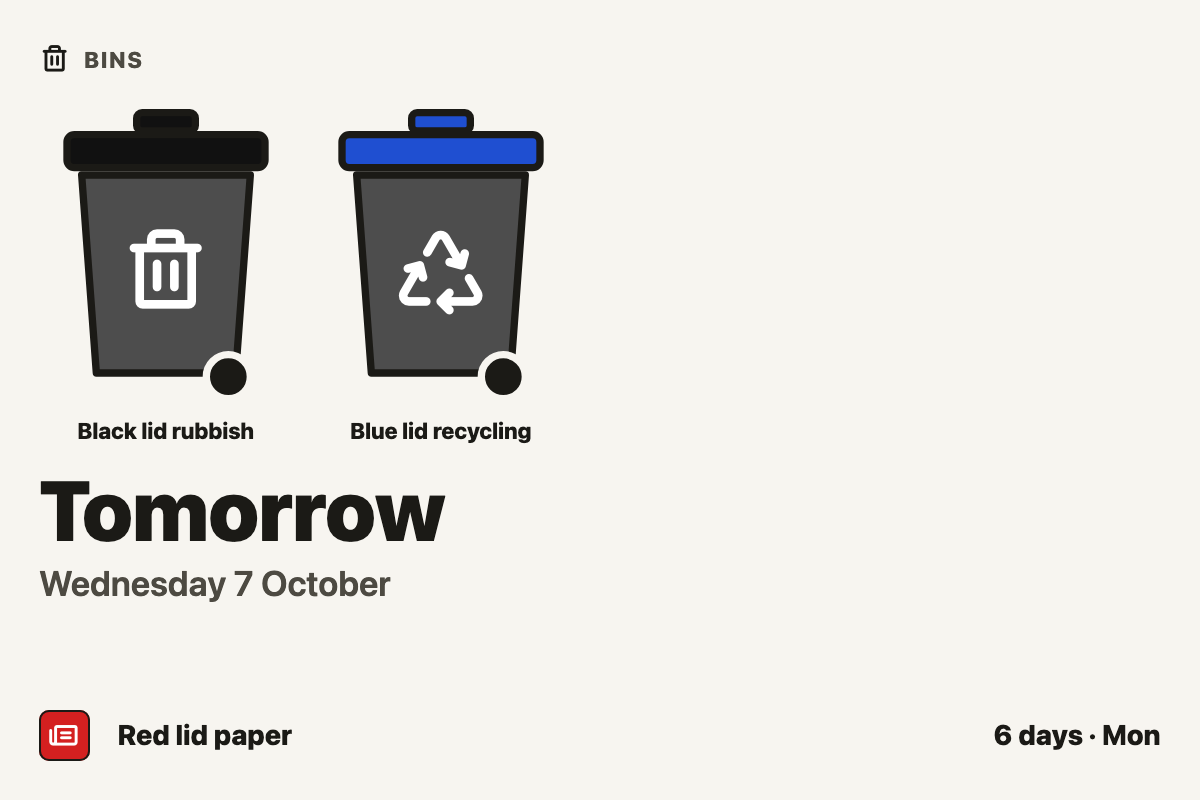
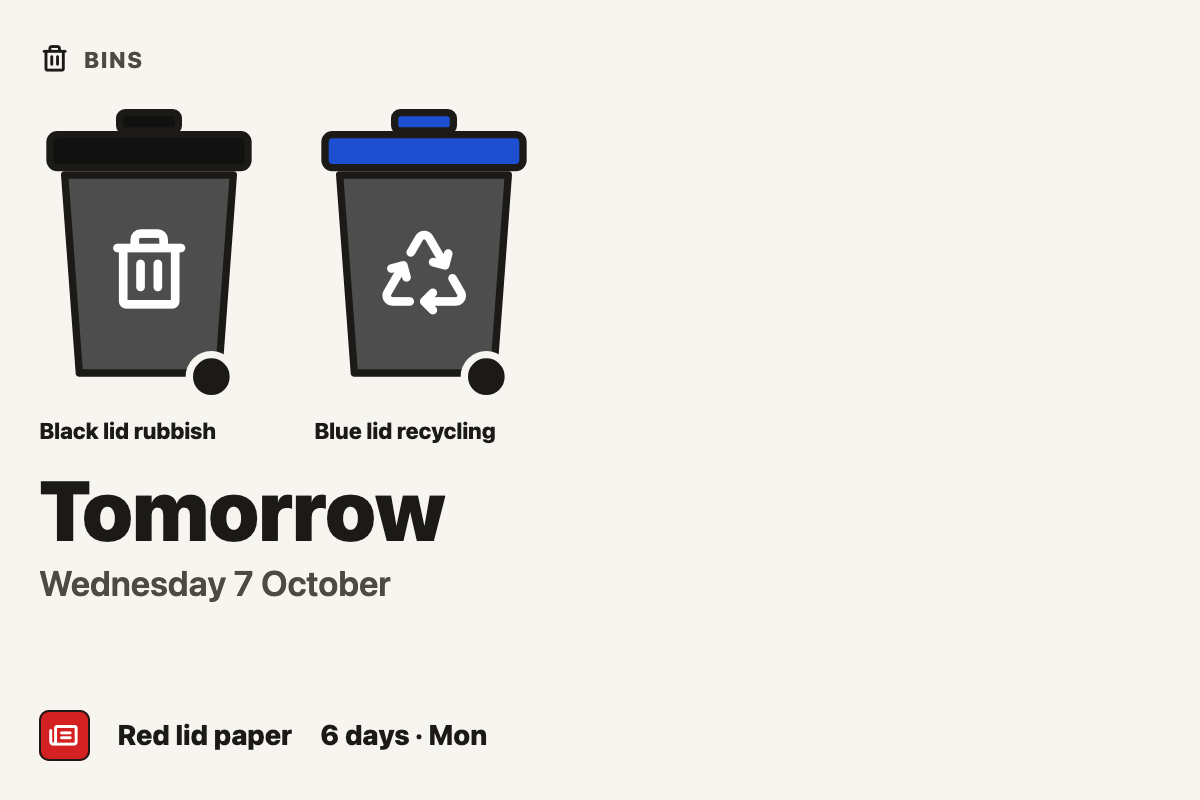
Fix what the final review found: +N size, short tiles, left edges
- "+N" badges are the size of the chips or bins beside them again. The
  badge set its own font size, so its em-based size resolved differently
  from its neighbours'; its text is now in a child span. MD's busiest day
  (14 bins) fits its cell again.
- Error and empty tiles show the whole message in short wide cells
  (380x120, 240x120): a short body drops the icon and sets the message in
  the label size, and the icon only stacks above the text when there is
  the height for it.
- Bins line up on the left with their names under them, instead of
  centred in a wider box; LG's "when" follows the names rather than
  sitting at the right edge.
- Black and white draws icons on ink in the ink inverted, so they stay
  visible on canvas dashboards, which make --surface transparent.
- MD's day labels take the body size, so "Tomorrow" fits the two bin
  widths its column reserves and a busy later column keeps its bins on
  one line.

Each has a browser test that failed first.

- 538 pytest cases at 100% line and branch coverage, passing on Tesserae
  0.436.1 and 0.466.1; 82 client tests

diff --git a/tests/js/client.test.js b/tests/js/client.test.js
@@ -183,7 +183,7 @@ describe("render", () => {
   test("XS has room for three chips; four collapse to two and +N", () => {
     const four = draw("xs", { days: [{ ...MONDAY, streams: bins(4) }] });
     assert.equal(count(four, 'class="chip"'), 2);
-    assert.ok(four.includes('<span class="more">+2</span>'));
+    assert.ok(four.includes('<span class="more"><span>+2</span></span>'));
   });
 
   describe("SM busy mode: the upcoming day has four or more bins", () => {
@@ -205,7 +205,7 @@ describe("render", () => {
       assert.equal(count(html, 'class="day-stack"'), 0);
       assert.ok(html.includes("6 days"));
       assert.equal(count(html, 'class="chip"'), 4); // two for tomorrow, two for the busy day
-      assert.ok(html.includes('<span class="more">+3</span>'));
+      assert.ok(html.includes('<span class="more"><span>+3</span></span>'));
     });
 
     test("three bins a day keeps the two-row layout", () => {
@@ -229,7 +229,7 @@ describe("render", () => {
     test("thirteen or more end with +N", () => {
       const html = draw("sm", { days: [busyDay(14)] });
       assert.equal(count(html, 'class="chip"'), 11);
-      assert.ok(html.includes('<span class="more">+3</span>'));
+      assert.ok(html.includes('<span class="more"><span>+3</span></span>'));
     });
   });
 
@@ -298,7 +298,7 @@ describe("MD: one column per collection day", () => {
     const html = draw("md", { days: [on(1, bins(1)), on(6, bins(14))] });
     assert.equal(count(html, 'class="day-col"'), 2);
     assert.equal(count(html, 'class="bin"'), 5); // one tomorrow, four on day 6
-    assert.ok(html.includes('<span class="more">+10</span>'));
+    assert.ok(html.includes('<span class="more"><span>+10</span></span>'));
     assert.ok(html.includes("--bins:7;--cols:2")); // tomorrow claims 2, day 6 its 5 slots
   });
 
@@ -306,7 +306,7 @@ describe("MD: one column per collection day", () => {
     const html = draw("md", { days: [on(1, bins(4)), on(3, bins(3))] });
     assert.equal(count(html, 'class="day-col"'), 2);
     assert.equal(count(html, 'class="bin"'), 5);
-    assert.ok(html.includes('<span class="more">+2</span>'));
+    assert.ok(html.includes('<span class="more"><span>+2</span></span>'));
   });
 
   test("a busy upcoming day fills MD alone, with +N beyond twelve bins", () => {
@@ -316,7 +316,7 @@ describe("MD: one column per collection day", () => {
     assert.ok(!seven.includes('class="more"'));
     const fourteen = draw("md", { days: [on(1, bins(14))] });
     assert.equal(count(fourteen, 'class="bin"'), 11);
-    assert.ok(fourteen.includes('<span class="more">+3</span>'));
+    assert.ok(fourteen.includes('<span class="more"><span>+3</span></span>'));
   });
 
   test("each column claims at least two bins of width, for its heading", () => {
@@ -357,7 +357,7 @@ describe("LG: the upcoming day as hero, later days in a strip", () => {
     assert.ok(!five.includes('class="more"'));
     const thirteen = draw("lg", { days: [TOMORROW, on(6, bins(13))] });
     assert.equal(count(thirteen, 'class="chip"'), 11);
-    assert.ok(thirteen.includes('<span class="more">+2</span>'));
+    assert.ok(thirteen.includes('<span class="more"><span>+2</span></span>'));
   });
 
   test("a strip row with more than three bins drops its names, keeping chips and when", () => {
@@ -380,7 +380,7 @@ describe("LG: the upcoming day as hero, later days in a strip", () => {
   test("a busy hero shows up to twelve bins, then +N", () => {
     const html = draw("lg", { days: [on(1, bins(14))] });
     assert.equal(count(html, 'class="bin"'), 11);
-    assert.ok(html.includes('<span class="more">+3</span>'));
+    assert.ok(html.includes('<span class="more"><span>+3</span></span>'));
   });
 });
 
@@ -539,7 +539,7 @@ describe("small cells with wheelie bins", () => {
     assert.ok(!four.includes('class="more"'));
     const six = drawBins("sm", { days: [{ ...TOMORROW, streams: bins(6) }] });
     assert.equal(count(six, 'class="bin"'), 3);
-    assert.ok(six.includes('<span class="more">+3</span>'));
+    assert.ok(six.includes('<span class="more"><span>+3</span></span>'));
   });
 
   test("the next collection's bins come first, then its count and date", () => {

diff --git a/bin_day/client.css b/bin_day/client.css
@@ -60,8 +60,12 @@
   background: var(--surface-sunken);
   color: var(--text-primary);
   font-weight: var(--fw-bold);
-  font-size: calc(var(--chip) * 0.4);
   font-variant-numeric: tabular-nums;
+}
+
+/* the "+N" text, sized from its chip; the badge keeps the chips' em */
+.bin-day .more > span {
+  font-size: calc(var(--chip) * 0.4);
 }
 
 /* ---- the days left: Tesserae's big number (.stat-value, .unit) ---------- */
@@ -182,7 +186,7 @@
 .bin-day .bin-item {
   display: flex;
   flex-direction: column;
-  align-items: center;
+  align-items: flex-start; /* on the left, its name under it */
   gap: calc(var(--bin) * 0.06);
   width: calc(var(--bin) * 1.15);
   min-width: 0;
@@ -250,6 +254,9 @@
   width: var(--bin);
   height: calc(var(--bin) * 4 / 3);
   border-radius: calc(var(--bin) * 0.12);
+}
+
+.bin-day .bins .more > span {
   font-size: calc(var(--bin) * 0.3);
 }
 
@@ -353,7 +360,7 @@
   container-type: size;
   display: flex;
   gap: 3cqw;
-  --head: calc(var(--fs-lead) * 1.05 + var(--fs-label) * 1.35 + var(--space-1));
+  --head: calc(var(--fs-body) * 1.05 + var(--fs-label) * 1.35 + var(--space-1));
   /* the bins across every column share the width (columns add a gap and a
      rule); their heights, with names, share what the day labels leave */
 }
@@ -386,8 +393,9 @@
   gap: var(--space-1);
 }
 
+/* the body size: a column reserves two bin widths for its day label */
 .bin-day.size-md .day-label {
-  font-size: var(--fs-lead);
+  font-size: var(--fs-body);
 }
 
 /* ---- lg: the upcoming day's bins then its day, later days at the bottom -- */
@@ -458,7 +466,7 @@
 }
 
 .bin-day .strip-names {
-  flex: 1 1 auto;
+  flex: 0 1 auto;
   min-width: 0;
   overflow: hidden;
   text-overflow: ellipsis;
@@ -466,7 +474,6 @@
 
 .bin-day .strip-when {
   flex: 0 0 auto;
-  margin-left: auto; /* right-aligned, names or not */
   font-variant-numeric: tabular-nums;
 }
 
@@ -478,6 +485,9 @@
   /* the theme's ink and paper: black on white in Paper and Newsprint */
   --mono-ink: var(--text-primary);
   --mono-paper: var(--surface);
+  /* icons drawn on ink: the ink inverted, opaque even where a canvas
+     dashboard makes --surface transparent */
+  --mono-on-ink: rgb(from var(--mono-ink) calc(255 - r) calc(255 - g) calc(255 - b));
 }
 
 .bin-day .defs {
@@ -517,7 +527,7 @@
 /* solid */
 .bin-day.mono .chip[data-mono="solid"] {
   background: var(--mono-ink);
-  color: var(--mono-paper);
+  color: var(--mono-on-ink);
 }
 
 .bin-day.mono .bin[data-mono="solid"] .body,
@@ -526,7 +536,7 @@
 }
 
 .bin-day.mono .bin[data-mono="solid"] i {
-  color: var(--mono-paper);
+  color: var(--mono-on-ink);
 }
 
 /* patterned: hatched, dotted, cross-hatched */
@@ -562,7 +572,7 @@
 .bin-day.mono :is([data-mono="hatched"], [data-mono="dotted"], [data-mono="crosshatch"]) i {
   padding: 0.22em;
   border-radius: 50%;
-  background: var(--mono-paper);
+  background: var(--mono-on-ink);
 }
 
 .bin-day.mono .chip:is([data-mono="hatched"], [data-mono="dotted"], [data-mono="crosshatch"]) i {
@@ -582,7 +592,8 @@
 
 /* ---- empty state and error tile ---------------------------------------- */
 .bin-day .notice {
-  flex: 0 0 auto;
+  flex: 0 1 auto;
+  min-height: 0;
   display: flex;
   align-items: flex-start;
   justify-content: flex-start;
@@ -646,9 +657,20 @@
   }
 }
 
-/* Compact bodies (Tesserae's 360px breakpoint): the empty and error tiles
-   stack their icon above the text. */
-@container (max-width: 360px) {
+/* Short bodies: the message gets the whole width and the label size. */
+@container (max-height: 100px) {
+  .bin-day .notice i {
+    display: none;
+  }
+
+  .bin-day .notice.is-error p {
+    font-size: var(--fs-label);
+  }
+}
+
+/* Compact bodies (Tesserae's 360px breakpoint) with the height for it: the
+   empty and error tiles stack their icon above the text. */
+@container (max-width: 360px) and (min-height: 140px) {
   .bin-day .notice {
     flex-direction: column;
     align-items: flex-start;

diff --git a/bin_day/client.js b/bin_day/client.js
@@ -193,15 +193,19 @@ function bin(stream, named = true) {
   return `<span class="bin-item"><span class="bin" ${monoAttr(stream)} role="img" aria-label="${name}" style="${colours}">${BIN_SVG}${iconHtml(stream)}</span>${named ? `<span class="bin-label">${name}</span>` : ""}</span>`;
 }
 
+// "+N" for the bins that don't fit. Its text is in a child, so the badge box
+// sizes in the same em as the chips or bins beside it.
+const moreBadge = (extra) => `<span class="more"><span>+${extra}</span></span>`;
+
 function bins(streams, slots, named = true) {
   const { shown, extra } = visibleChips(streams, slots);
-  const more = extra ? `<span class="more">+${extra}</span>` : "";
+  const more = extra ? moreBadge(extra) : "";
   return `<div class="bins">${shown.map((stream) => bin(stream, named)).join("")}${more}</div>`;
 }
 
 function chips(streams, slots, layout, style = "") {
   const { shown, extra } = visibleChips(streams, slots);
-  const more = extra ? `<span class="more">+${extra}</span>` : "";
+  const more = extra ? moreBadge(extra) : "";
   return `<div class="chips${layout}"${style}>${shown.map(chip).join("")}${more}</div>`;
 }
 

diff --git a/tests/test_widget_browser.py b/tests/test_widget_browser.py
@@ -223,12 +223,21 @@ def test_every_layout_reads_title_then_bins_then_days_from_the_top_left(
         assert abs(block[0] - content[0]) <= 2, f"{selector} is not on the left"
         assert -1 <= block[1] - previous[3] <= limit, f"{selector} is not straight below"
         previous = block
+    shapes = tab.locator(".w-body :is(.bin, .chip)")
+    if shapes.count():
+        assert abs(box(shapes.first)[0] - content[0]) <= 2, "the first bin is not on the left"
     if case == "sm-chips":
         for row in tab.locator(".day-row").all():
             chips, label = box(row.locator(".chips")), box(row.locator(".day-label"))
             assert 0 <= label[0] - chips[2] <= 32
     if case == "lg":
         assert abs(box(tab.locator(".strip"))[3] - content[3]) <= 2
+        for row in tab.locator(".strip-row").all():
+            when, before = (
+                box(row.locator(".strip-when")),
+                box(row.locator(".strip-when >> xpath=preceding-sibling::*[1]")),
+            )
+            assert 0 <= when[0] - before[2] <= limit, "when is pushed away from the names"
     cell = box(tab.locator(".cell").first)
     drawn = tab.locator(f".w-title, .w-body :is({DRAWN}):visible")
     for element in drawn.all():
@@ -293,3 +302,71 @@ def test_narrow_notices_stack_their_icon_above_the_text(tab, bins):
     bins(NOTHING_THIS_WEEK)
     show(tab, 340, 220)
     assert box(tab.locator(".notice i"))[3] <= box(tab.locator(".notice p"))[1]
+
+
+# "+N" stands in for the bins it hides, so it is the size of a bin or chip.
+FOUR_TOMORROW = [bin_(f"Bin {n}", "2026-10-07") for n in range(4)]
+BUSY_SECOND_DAY = [bin_("Refuse", "2026-10-07")] + [
+    bin_(f"Bin {n}", "2026-10-12") for n in range(5)
+]
+FOURTEEN_TOMORROW = [bin_(f"Bin {n}", "2026-10-07") for n in range(14)]
+
+
+@pytest.mark.parametrize(
+    "w, h, streams, scope, shape",
+    [
+        (200, 120, FOUR_TOMORROW, ".chips", ".chip"),
+        (300, 240, BUSY_SECOND_DAY, ".day-row >> nth=1", ".chip"),
+        (640, 400, FOURTEEN_TOMORROW, ".bins", ".bin"),
+    ],
+    ids=["xs", "sm-second-day", "md-overflow"],
+)
+def test_a_plus_n_badge_is_the_size_of_its_neighbours(tab, bins, w, h, streams, scope, shape):
+    bins(streams)
+    show(tab, w, h)
+    row = tab.locator(scope).first
+    neighbour, more = box(row.locator(shape).first), box(row.locator(".more"))
+    assert abs((more[2] - more[0]) - (neighbour[2] - neighbour[0])) <= 1
+    assert abs((more[3] - more[1]) - (neighbour[3] - neighbour[1])) <= 1
+    cell = box(tab.locator(".cell").first)
+    for element in tab.locator(f".w-title, .w-body :is({DRAWN}):visible").all():
+        assert within(box(element), cell), element.evaluate("el => el.outerHTML.slice(0, 60)")
+
+
+@pytest.mark.parametrize("w, h", [(380, 120), (240, 120)])
+def test_short_cells_show_the_whole_setup_message(app, registry, tab, w, h):
+    """Home Assistant not connected: the setup message is the user's only guidance."""
+    core = registry.get("bin_day_core").server_module
+    with app.app_context():
+        core.save_config(
+            {"source": "calendar", "calendar": "calendar.bins", "schedule": [], "mappings": {}}
+        )
+    show(tab, w, h)
+    message = tab.locator(".notice p")
+    assert "Settings, Widgets, Home Assistant Core." in message.inner_text()
+    assert message.evaluate("el => el.scrollHeight <= el.clientHeight + 1"), (
+        "the message is cut off"
+    )
+    assert within(box(message), box(tab.locator(".cell").first))
+
+
+def test_black_and_white_icons_stay_visible_on_a_canvas(tab, bins):
+    """Canvas dashboards make --surface and --bg transparent on every cell."""
+    bins(LIVERPOOL)
+    show(tab, 640, 400, colours="mono")
+    tab.locator(".cell-content").first.evaluate(
+        "el => el.style.cssText += '--surface: transparent; --bg: transparent;'"
+        " + '--surface-gradient: transparent'"
+    )
+    clear = "rgba(0, 0, 0, 0)"
+    assert computed(tab, '.bin[data-mono="solid"] i', "color") != clear
+    assert computed(tab, '.bin[data-mono="hatched"] i', "backgroundColor") != clear
+
+
+def test_md_day_columns_keep_their_bins_on_one_line(tab, bins):
+    """A later day's column gets the bin widths left; its heading mustn't squeeze it."""
+    bins(BUSY_SECOND_DAY)
+    show(tab, 640, 400)
+    for column in tab.locator(".day-col").all():
+        tops = {round(box(item)[1]) for item in column.locator(":is(.bin-item, .more)").all()}
+        assert max(tops) - min(tops) <= 1, "a column's bins wrapped onto a second line"
